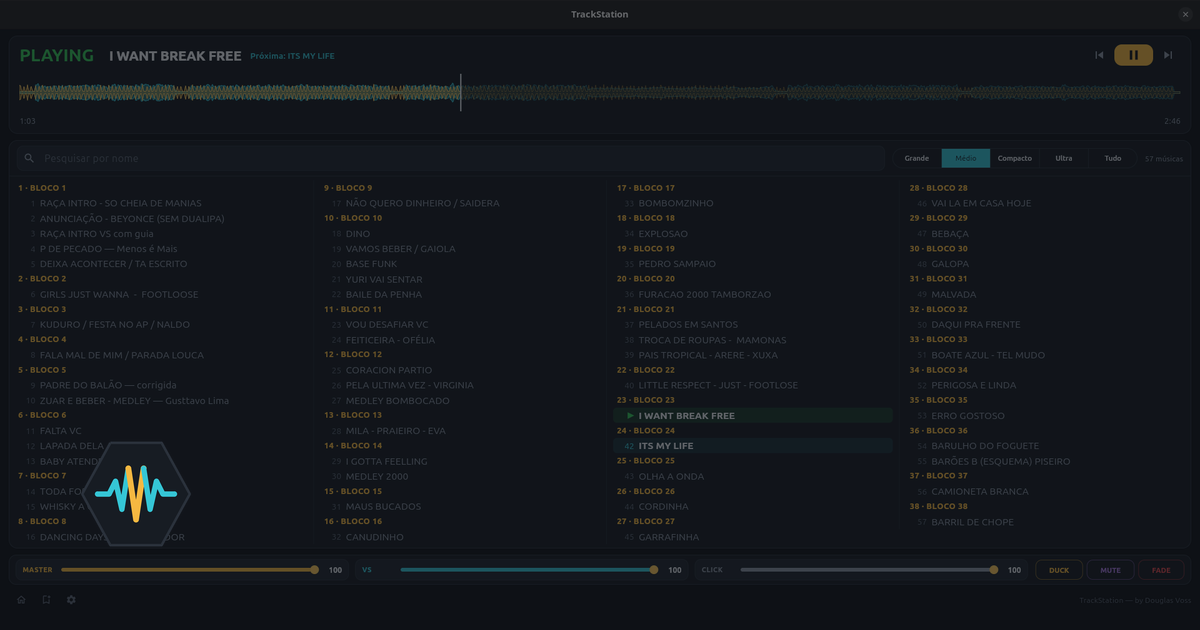
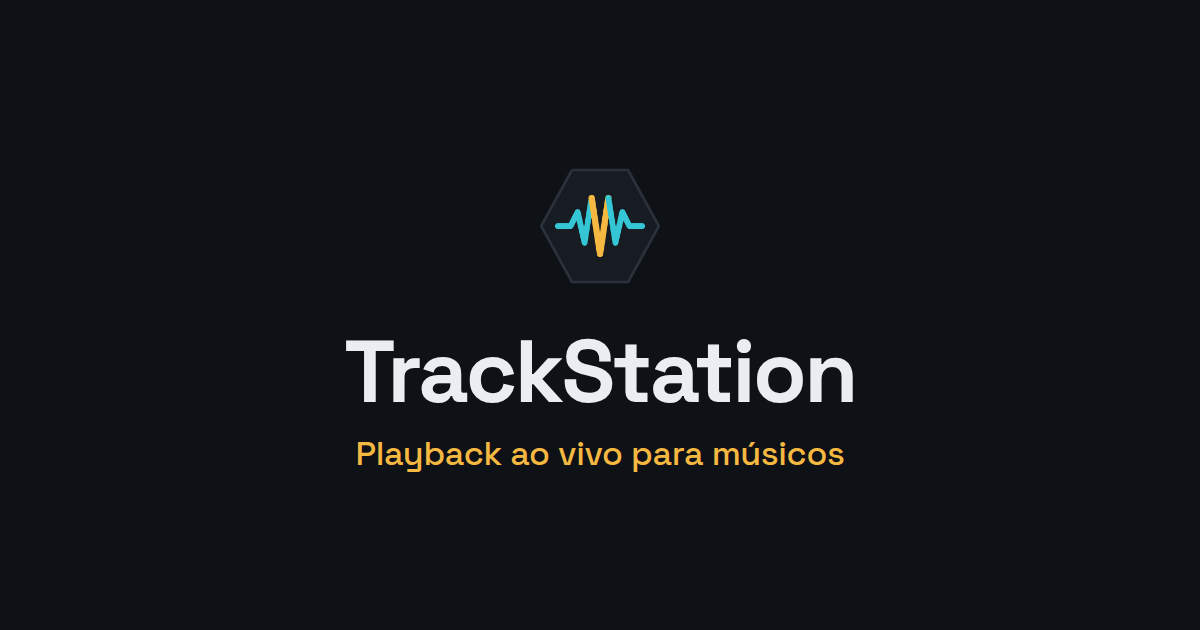
fix: gerar og.png como cartão HTML com fonte real, não crop do print

diff --git a/tools/og.html b/tools/og.html
@@ -1,0 +1,75 @@
+<!doctype html>
+<html lang="pt-BR">
+<head>
+<meta charset="utf-8">
+<title>TrackStation — cartão de compartilhamento</title>
+<style>
+  /* Cartão de compartilhamento (og:image), 1200x630 fixo.
+     Mesma paleta e tipografia do site — usa a fonte local, sem CDN. */
+  @font-face {
+    font-family: 'Space Grotesk';
+    src: url('../assets/fonts/space-grotesk-latin.woff2') format('woff2');
+    font-weight: 300 700;
+    font-style: normal;
+  }
+
+  :root {
+    --ground: #0E1116;
+    --text: #EAEEF3;
+    --amber: #F5B841;
+  }
+
+  * { box-sizing: border-box; }
+
+  html, body {
+    margin: 0;
+    padding: 0;
+    width: 1200px;
+    height: 630px;
+    overflow: hidden;
+    background: var(--ground);
+  }
+
+  .cartao {
+    width: 1200px;
+    height: 630px;
+    display: flex;
+    flex-direction: column;
+    align-items: center;
+    justify-content: center;
+  }
+
+  .icone {
+    width: 140px;
+    height: 140px;
+    margin-bottom: 2rem;
+  }
+
+  h1 {
+    font-family: 'Space Grotesk', system-ui, sans-serif;
+    font-weight: 700;
+    font-size: 88px;
+    letter-spacing: -0.03em;
+    line-height: 1;
+    color: var(--text);
+    margin: 0;
+  }
+
+  .tese {
+    font-family: 'Space Grotesk', system-ui, sans-serif;
+    font-weight: 500;
+    font-size: 34px;
+    letter-spacing: -0.01em;
+    color: var(--amber);
+    margin: 1rem 0 0;
+  }
+</style>
+</head>
+<body>
+  <div class="cartao">
+    <img class="icone" src="../assets/icon.png" alt="">
+    <h1>TrackStation</h1>
+    <p class="tese">Playback ao vivo para músicos</p>
+  </div>
+</body>
+</html>
